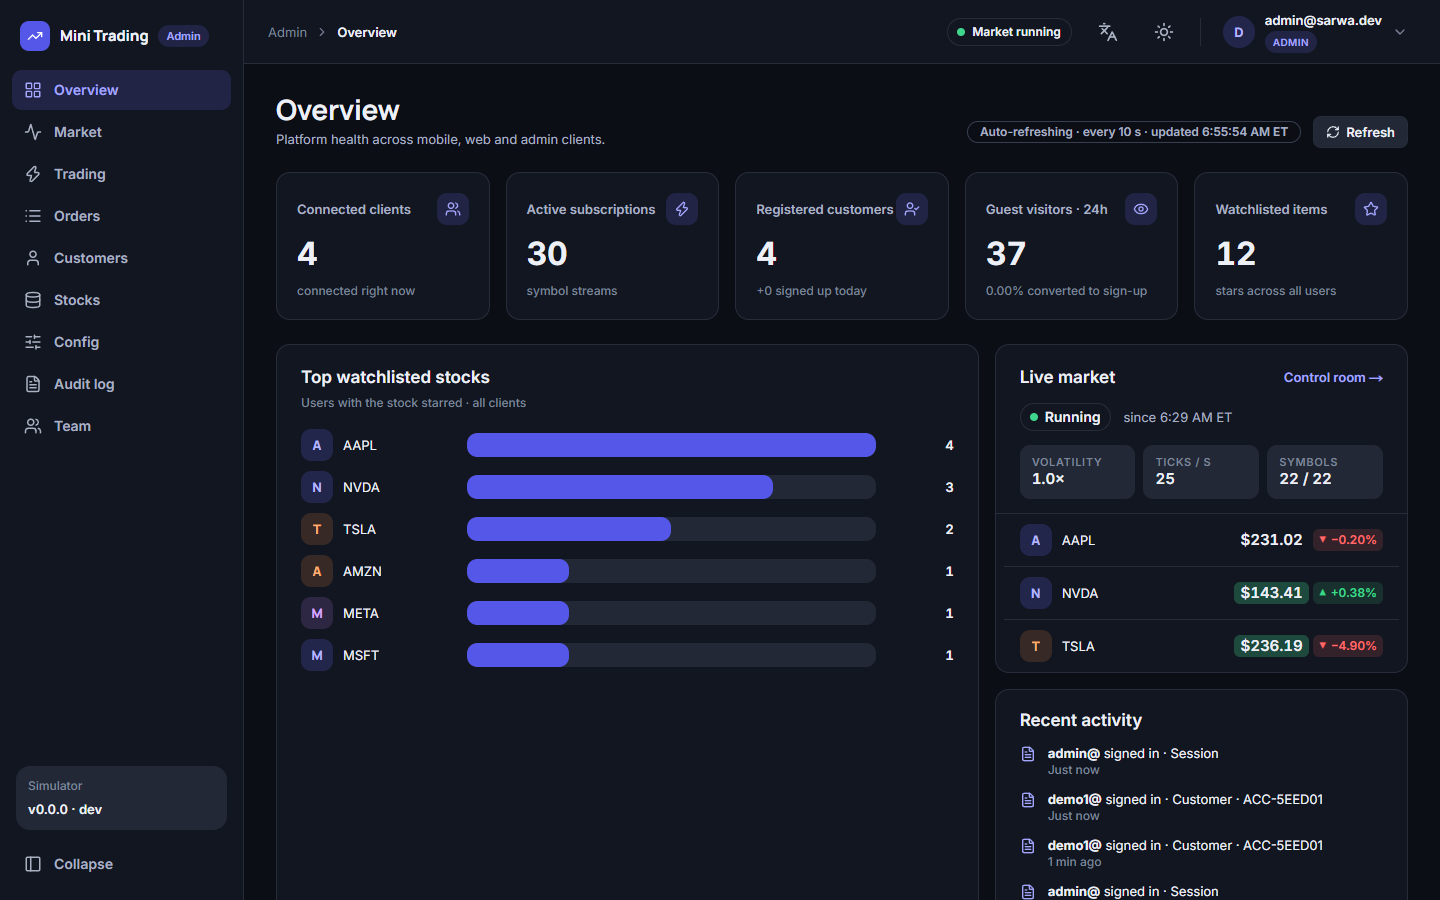
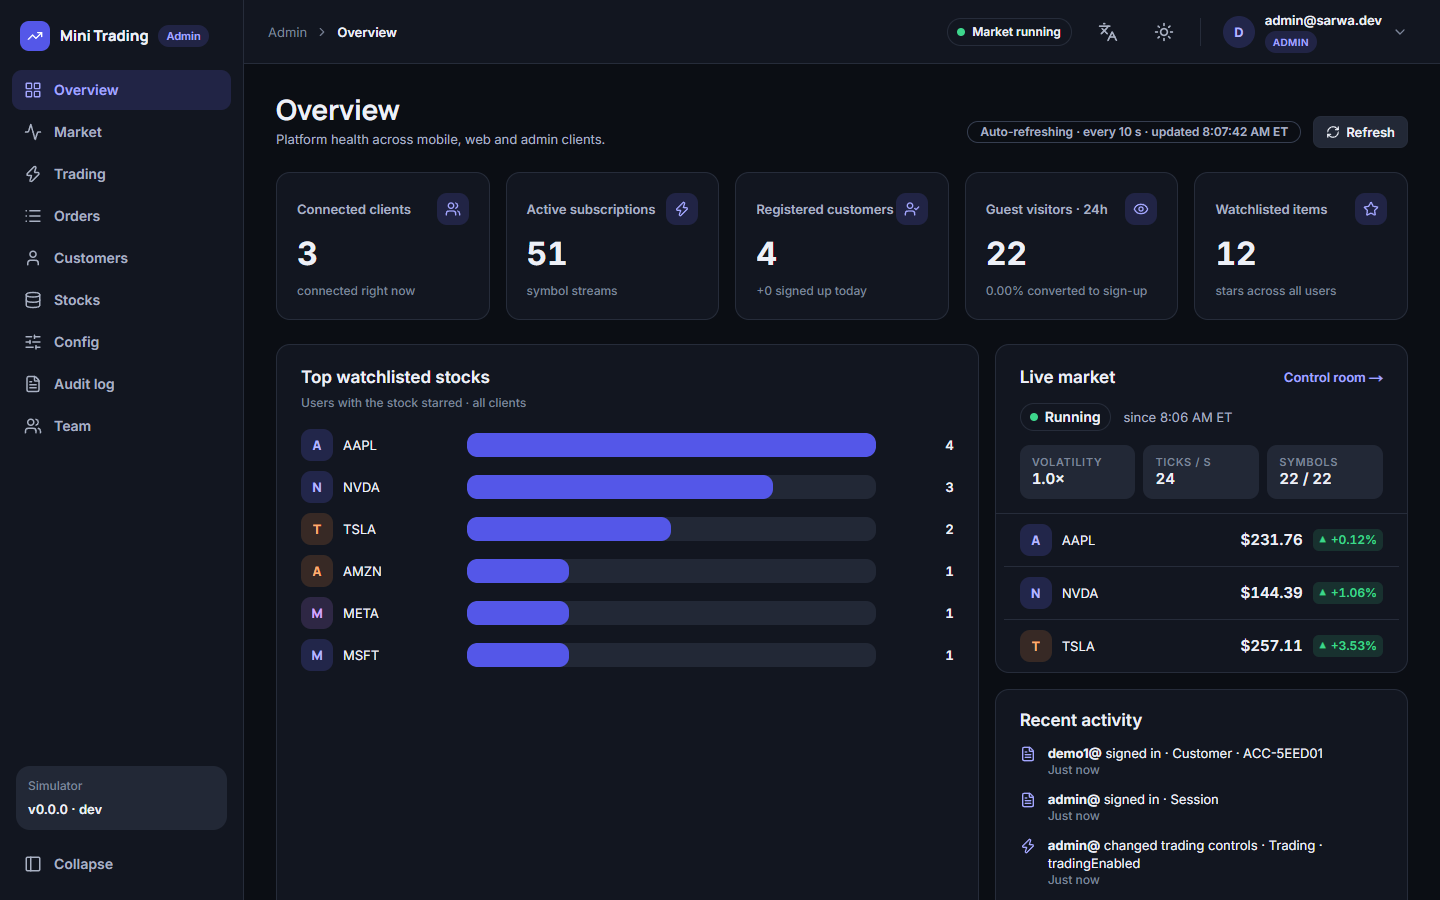
docs: add the admin dashboard section and live screenshots to the readmes

diff --git a/README.md b/README.md
@@ -7,12 +7,21 @@ A paper-trading platform with live prices: a native Expo app, a Next.js website,
 ![TypeScript](https://img.shields.io/badge/TypeScript-strict-3178c6)
 ![Lighthouse (manual, local)](https://img.shields.io/badge/Lighthouse%20%28manual%2C%20local%29-a11y%20100%20%C2%B7%20SEO%20100-success)
 
-<p align="center">
+<table align="center">
+<tr>
+<td align="center" valign="middle">
   <picture>
     <source media="(prefers-color-scheme: dark)" srcset="docs/screenshots/dark/web-markets.png">
-    <img src="docs/screenshots/light/web-markets.png" alt="The markets page on the web app, with live prices" width="900">
+    <img src="docs/screenshots/light/web-markets.png" alt="The markets page on the web app, with live prices" width="660">
   </picture>
-</p>
+  <br><sub><b>Web</b> · Next.js</sub>
+</td>
+<td align="center" valign="middle">
+  <img src="docs/screenshots/mobile-app/watchlist-dark.jpg" alt="The native Expo app on a real phone: watchlist with live prices" width="190">
+  <br><sub><b>Mobile app</b> · Expo, on a real phone</sub>
+</td>
+</tr>
+</table>
 
 ## Contents
 
@@ -22,15 +31,16 @@ A paper-trading platform with live prices: a native Expo app, a Next.js website,
 4. [The brief, and how each requirement is met](#the-brief-and-how-each-requirement-is-met)
 5. [What I added beyond the brief, and why](#what-i-added-beyond-the-brief-and-why)
 6. [Screenshots](#screenshots)
-7. [Architecture](#architecture)
-8. [Tech stack](#tech-stack)
-9. [Performance](#performance)
-10. [Security](#security)
-11. [Quality and testing](#quality-and-testing)
-12. [How I worked with AI](#how-i-worked-with-ai)
-13. [Known limitations](#known-limitations)
-14. [Roadmap](#roadmap)
-15. [Repository map and further reading](#repository-map-and-further-reading)
+7. [Admin dashboard](#admin-dashboard)
+8. [Architecture](#architecture)
+9. [Tech stack](#tech-stack)
+10. [Performance](#performance)
+11. [Security](#security)
+12. [Quality and testing](#quality-and-testing)
+13. [How I worked with AI](#how-i-worked-with-ai)
+14. [Known limitations](#known-limitations)
+15. [Roadmap](#roadmap)
+16. [Repository map and further reading](#repository-map-and-further-reading)
 
 ## TL;DR
 
@@ -261,49 +271,75 @@ Guests browse freely; signing in unlocks trading, alerts and sessions. Shown wit
 
 </details>
 
-<details>
-<summary><b>Admin dashboard</b> (click to expand)</summary>
+## Admin dashboard
+
+A separate Next.js app on http://localhost:3001 with two roles, ADMIN and VIEWER ([ADR 0012](docs/adr/0012-admin-dashboard-separate-app.md)). Every write requires ADMIN and is written to the audit log. Sign in with `admin@sarwa.dev` / `admin12345` (ADMIN) or `viewer@sarwa.dev` / `viewer12345` (VIEWER, read-only).
+
+### Control the market live
+
+Each change reaches every connected web and mobile client at once over Socket.IO (`market:status`, `config:updated`, `trading.status`, `symbol.halted` / `symbol.resumed`), with no refresh.
+
+<p align="center">
+  <picture><source media="(prefers-color-scheme: dark)" srcset="docs/screenshots/dark/admin-market-control.png"><img src="docs/screenshots/light/admin-market-control.png" alt="Market control room: market running, volatility and drop connections" width="820"></picture>
+  <br><sub>Market control room: market status, volatility and drop connections, with a live ticker.</sub>
+</p>
 
 <table>
-<tr><th width="50%">Light</th><th width="50%">Dark</th></tr>
+<tr><th width="20%">Admin action</th><th width="40%">Admin dashboard</th><th width="40%">Customer web app, live</th></tr>
 <tr>
-<td width="50%"><img src="docs/screenshots/light/admin-overview.png" alt="Overview, light theme" width="420"></td>
-<td width="50%"><img src="docs/screenshots/dark/admin-overview.png" alt="Overview, dark theme" width="420"></td>
+<td width="20%"><b>Pause and resume the market</b><br>Prices freeze and every client shows a "Market paused, prices are frozen" notice; trading picks up again the moment an admin resumes.</td>
+<td width="40%"><picture><source media="(prefers-color-scheme: dark)" srcset="docs/screenshots/dark/admin-market-paused.png"><img src="docs/screenshots/light/admin-market-paused.png" alt="Admin market control with the market paused" width="360"></picture></td>
+<td width="40%"><picture><source media="(prefers-color-scheme: dark)" srcset="docs/screenshots/dark/web-live-paused.png"><img src="docs/screenshots/light/web-live-paused.png" alt="Customer web app showing the market paused" width="360"></picture></td>
 </tr>
-<tr><td colspan="2" align="center"><sub>Overview</sub></td></tr>
 <tr>
-<td width="50%"><img src="docs/screenshots/light/admin-market.png" alt="Market control room: status, volatility, drop connections, live ticker, light theme" width="420"></td>
-<td width="50%"><img src="docs/screenshots/dark/admin-market.png" alt="Market control room: status, volatility, drop connections, live ticker, dark theme" width="420"></td>
+<td width="20%"><b>Halt a symbol, or the kill switch</b><br>Shown: a TSLA halt with the reason "Pending news announcement", next to the kill switch, circuit breaker and session mode. The kill switch turns off Buy and Sell for everyone while prices stay live; the customer sees "TSLA halted" with submit disabled.</td>
+<td width="40%"><picture><source media="(prefers-color-scheme: dark)" srcset="docs/screenshots/dark/admin-trading.png"><img src="docs/screenshots/light/admin-trading.png" alt="Admin trading controls with the kill switch and a halted symbol" width="360"></picture></td>
+<td width="40%"><picture><source media="(prefers-color-scheme: dark)" srcset="docs/screenshots/dark/web-live-halt.png"><img src="docs/screenshots/light/web-live-halt.png" alt="Customer web app showing a halted symbol" width="360"></picture></td>
 </tr>
-<tr><td colspan="2" align="center"><sub>Market control room: status, volatility, drop connections, live ticker</sub></td></tr>
 <tr>
-<td width="50%"><img src="docs/screenshots/light/admin-customers.png" alt="Customers, light theme" width="420"></td>
-<td width="50%"><img src="docs/screenshots/dark/admin-customers.png" alt="Customers, dark theme" width="420"></td>
+<td width="20%"><b>Banner message</b><br>"Markets close early today at 1:00 PM ET", with a live web and mobile preview; shown at the top of both apps, empty hides it.</td>
+<td width="40%"><picture><source media="(prefers-color-scheme: dark)" srcset="docs/screenshots/dark/admin-config.png"><img src="docs/screenshots/light/admin-config.png" alt="Admin configuration with the banner message" width="360"></picture></td>
+<td width="40%"><picture><source media="(prefers-color-scheme: dark)" srcset="docs/screenshots/dark/web-live-banner.png"><img src="docs/screenshots/light/web-live-banner.png" alt="Customer web app showing the admin banner" width="360"></picture></td>
 </tr>
-<tr><td colspan="2" align="center"><sub>Customers</sub></td></tr>
 <tr>
-<td width="50%"><img src="docs/screenshots/light/admin-customer-detail.png" alt="Customer detail: portfolio, sessions and audited admin actions, light theme" width="420"></td>
-<td width="50%"><img src="docs/screenshots/dark/admin-customer-detail.png" alt="Customer detail: portfolio, sessions and audited admin actions, dark theme" width="420"></td>
+<td width="20%"><b>Maintenance mode</b><br>Every client screen is replaced with "We'll be right back" and the server blocks writes; admin stays available.</td>
+<td width="40%"><picture><source media="(prefers-color-scheme: dark)" srcset="docs/screenshots/dark/admin-config.png"><img src="docs/screenshots/light/admin-config.png" alt="Admin configuration with the maintenance mode toggle" width="360"></picture></td>
+<td width="40%"><picture><source media="(prefers-color-scheme: dark)" srcset="docs/screenshots/dark/web-live-maintenance.png"><img src="docs/screenshots/light/web-live-maintenance.png" alt="Customer web app in maintenance mode" width="360"></picture></td>
 </tr>
-<tr><td colspan="2" align="center"><sub>Customer detail: portfolio, sessions and audited admin actions</sub></td></tr>
-<tr>
-<td width="50%"><img src="docs/screenshots/light/admin-team.png" alt="Team members and a pending invite, light theme" width="420"></td>
-<td width="50%"><img src="docs/screenshots/dark/admin-team.png" alt="Team members and a pending invite, dark theme" width="420"></td>
-</tr>
-<tr><td colspan="2" align="center"><sub>Team: ADMIN and VIEWER roles, a pending email invite that expires in 48 hours</sub></td></tr>
-<tr>
-<td width="50%"><img src="docs/screenshots/light/admin-audit.png" alt="Audit log, light theme" width="420"></td>
-<td width="50%"><img src="docs/screenshots/dark/admin-audit.png" alt="Audit log, dark theme" width="420"></td>
-</tr>
-<tr><td colspan="2" align="center"><sub>Audit log: every sign-in and admin action, with its payload</sub></td></tr>
-<tr>
-<td width="50%"><img src="docs/screenshots/light/admin-login.png" alt="Admin sign-in, light theme" width="420"></td>
-<td width="50%"><img src="docs/screenshots/dark/admin-login.png" alt="Admin sign-in, dark theme" width="420"></td>
-</tr>
-<tr><td colspan="2" align="center"><sub>Admin sign-in</sub></td></tr>
 </table>
 
-</details>
+### Manage customers, team and audit
+
+<table>
+<tr>
+<td width="50%" align="center"><picture><source media="(prefers-color-scheme: dark)" srcset="docs/screenshots/dark/admin-overview.png"><img src="docs/screenshots/light/admin-overview.png" alt="Admin overview" width="420"></picture><br><sub><b>Overview</b>: connected clients, symbol streams, top watchlisted stocks, the live market and recent sign-ins and admin actions, refreshed every 10 s.</sub></td>
+<td width="50%" align="center"><picture><source media="(prefers-color-scheme: dark)" srcset="docs/screenshots/dark/admin-customers.png"><img src="docs/screenshots/light/admin-customers.png" alt="Customers list" width="420"></picture><br><sub><b>Customers</b>: search and filter; emails and IPs masked on the server.</sub></td>
+</tr>
+<tr>
+<td width="50%" align="center"><picture><source media="(prefers-color-scheme: dark)" srcset="docs/screenshots/dark/admin-customer-actions.png"><img src="docs/screenshots/light/admin-customer-actions.png" alt="Customer detail with an action dialog and a reason field" width="420"></picture><br><sub><b>Customer actions</b>: suspend, reactivate, sign out and reset each need a reason of 10 to 280 characters. Suspension cancels open orders and signs the customer out on every device within seconds; revealing IPs is audited.</sub></td>
+<td width="50%" align="center"><picture><source media="(prefers-color-scheme: dark)" srcset="docs/screenshots/dark/admin-stocks.png"><img src="docs/screenshots/light/admin-stocks.png" alt="Stocks management" width="420"></picture><br><sub><b>Stocks</b>: add, enable and tune the symbols the simulator runs (base price, volatility, sector, exchange).</sub></td>
+</tr>
+<tr>
+<td width="50%" align="center"><picture><source media="(prefers-color-scheme: dark)" srcset="docs/screenshots/dark/admin-team.png"><img src="docs/screenshots/light/admin-team.png" alt="Team members and a pending invite" width="420"></picture><br><sub><b>Team</b>: ADMIN and VIEWER roles; single-use email invites expire in 48 hours.</sub></td>
+<td width="50%" align="center"><picture><source media="(prefers-color-scheme: dark)" srcset="docs/screenshots/dark/admin-audit.png"><img src="docs/screenshots/light/admin-audit.png" alt="Audit log" width="420"></picture><br><sub><b>Audit log</b>: every sign-in and admin action, with its payload.</sub></td>
+</tr>
+</table>
+
+### Read-only VIEWER
+
+A VIEWER sees masked emails and locked controls, and the server answers any write with 403: masking happens on the server, so the browser never receives the data.
+
+<table>
+<tr>
+<td width="50%" align="center"><picture><source media="(prefers-color-scheme: dark)" srcset="docs/screenshots/dark/admin-viewer-customers.png"><img src="docs/screenshots/light/admin-viewer-customers.png" alt="Customers as a VIEWER, with masked emails" width="420"></picture><br><sub>Customers as a VIEWER: emails masked (d•••@sarwa.dev), Export CSV locked</sub></td>
+<td width="50%" align="center"><picture><source media="(prefers-color-scheme: dark)" srcset="docs/screenshots/dark/admin-viewer-readonly.png"><img src="docs/screenshots/light/admin-viewer-readonly.png" alt="Read-only notice and disabled controls for a VIEWER" width="420"></picture><br><sub>Read-only badge; Pause and Drop connections locked</sub></td>
+</tr>
+</table>
+
+<p align="center">
+  <picture><source media="(prefers-color-scheme: dark)" srcset="docs/screenshots/dark/admin-login.png"><img src="docs/screenshots/light/admin-login.png" alt="Admin sign-in" width="360"></picture>
+  <br><sub>Admin sign-in</sub>
+</p>
 
 ## Architecture
 

diff --git a/apps/web/README.md b/apps/web/README.md
@@ -2,6 +2,29 @@
 
 The customer web app, built with the Next.js 16 App Router and Tailwind v4. Guests can browse markets and star stocks. Signed-in customers trade, manage alerts and see their portfolio. Prices stream live over Socket.IO.
 
+## Screenshots
+
+Light or dark follows your GitHub theme.
+
+<table>
+  <tr>
+    <td width="50%"><picture><source media="(prefers-color-scheme: dark)" srcset="../../docs/screenshots/dark/web-home-guest.png"><img src="../../docs/screenshots/light/web-home-guest.png" alt="Guest home page"></picture><br><sub>Guest home: sign-up hero, top movers and the sector heatmap.</sub></td>
+    <td width="50%"><picture><source media="(prefers-color-scheme: dark)" srcset="../../docs/screenshots/dark/web-ticket.png"><img src="../../docs/screenshots/light/web-ticket.png" alt="Stock page with order review"></picture><br><sub>Stock page: live chart and the buy order review with a quote countdown.</sub></td>
+  </tr>
+  <tr>
+    <td width="50%"><picture><source media="(prefers-color-scheme: dark)" srcset="../../docs/screenshots/dark/web-live-paused.png"><img src="../../docs/screenshots/light/web-live-paused.png" alt="Market paused banner"></picture><br><sub>Live admin change: the market is paused, so a banner says prices are frozen.</sub></td>
+    <td width="50%"><picture><source media="(prefers-color-scheme: dark)" srcset="../../docs/screenshots/dark/web-live-halt.png"><img src="../../docs/screenshots/light/web-live-halt.png" alt="Trading halted on a stock"></picture><br><sub>Live admin change: TSLA is halted, so the order ticket blocks new orders.</sub></td>
+  </tr>
+  <tr>
+    <td width="50%"><picture><source media="(prefers-color-scheme: dark)" srcset="../../docs/screenshots/dark/web-portfolio.png"><img src="../../docs/screenshots/light/web-portfolio.png" alt="Portfolio page"></picture><br><sub>Portfolio: total equity, equity chart, cash and allocation, positions.</sub></td>
+    <td width="50%"><img src="../../docs/screenshots/rtl/web-ar.jpg" alt="Home page in Arabic"><br><sub>The home page in Arabic, laid out right to left.</sub></td>
+  </tr>
+  <tr>
+    <td width="50%"><picture><source media="(prefers-color-scheme: dark)" srcset="../../docs/screenshots/dark/web-mobile-stock.png"><img src="../../docs/screenshots/light/web-mobile-stock.png" alt="Stock page at phone width" width="280"></picture><br><sub>Phone width: stock page with sticky Buy and Sell buttons.</sub></td>
+    <td width="50%"><picture><source media="(prefers-color-scheme: dark)" srcset="../../docs/screenshots/dark/web-mobile-watchlist.png"><img src="../../docs/screenshots/light/web-mobile-watchlist.png" alt="Watchlist at phone width" width="280"></picture><br><sub>Phone width: watchlist with live prices and daily change.</sub></td>
+  </tr>
+</table>
+
 ## Run, test, build
 
 | Task               | In this folder                                                | From the root                                       |

diff --git a/apps/admin/README.md b/apps/admin/README.md
@@ -2,6 +2,25 @@
 
 The admin dashboard, a separate Next.js 16 app. Admins use it to watch the market and the platform, manage stocks, trading rules, halts, customers, orders, the team and invites, and to read the audit log. There are two roles: ADMIN (full access) and VIEWER (read-only, with PII masked by the server).
 
+## Screenshots
+
+Light or dark follows your GitHub theme.
+
+<table>
+  <tr>
+    <td width="50%"><picture><source media="(prefers-color-scheme: dark)" srcset="../../docs/screenshots/dark/admin-market-control.png"><img src="../../docs/screenshots/light/admin-market-control.png" alt="Market control room"></picture><br><sub>Market control room: pause the market, set volatility, drop all connections, live ticker.</sub></td>
+    <td width="50%"><picture><source media="(prefers-color-scheme: dark)" srcset="../../docs/screenshots/dark/admin-customers.png"><img src="../../docs/screenshots/light/admin-customers.png" alt="Customers list"></picture><br><sub>Customers: sign-up and activity stats, filters, and the customer table.</sub></td>
+  </tr>
+  <tr>
+    <td width="50%"><picture><source media="(prefers-color-scheme: dark)" srcset="../../docs/screenshots/dark/admin-customer-actions.png"><img src="../../docs/screenshots/light/admin-customer-actions.png" alt="Suspend customer dialog"></picture><br><sub>Customer actions: suspending a customer needs a reason category and a message.</sub></td>
+    <td width="50%"><picture><source media="(prefers-color-scheme: dark)" srcset="../../docs/screenshots/dark/admin-viewer-customers.png"><img src="../../docs/screenshots/light/admin-viewer-customers.png" alt="Customers as a VIEWER"></picture><br><sub>VIEWER role: read-only banner and masked customer emails.</sub></td>
+  </tr>
+  <tr>
+    <td width="50%"><picture><source media="(prefers-color-scheme: dark)" srcset="../../docs/screenshots/dark/admin-team.png"><img src="../../docs/screenshots/light/admin-team.png" alt="Team page"></picture><br><sub>Team: staff roles, disable access, and pending invites.</sub></td>
+    <td width="50%"><picture><source media="(prefers-color-scheme: dark)" srcset="../../docs/screenshots/dark/admin-audit.png"><img src="../../docs/screenshots/light/admin-audit.png" alt="Audit log"></picture><br><sub>Audit log: every admin action with actor, entity and payload.</sub></td>
+  </tr>
+</table>
+
 ## Run, test, build
 
 | Task               | In this folder                                                | From the root                                         |

diff --git a/apps/mobile/README.md b/apps/mobile/README.md
@@ -2,6 +2,18 @@
 
 The customer mobile app, built with Expo SDK 58, Expo Router and NativeWind. It offers the same features as the web app (markets, live prices, watchlist, trading, alerts, portfolio) and uses only libraries that run in Expo Go.
 
+## Screenshots
+
+Taken on a real phone in dark mode.
+
+<table>
+  <tr>
+    <td width="33%"><img src="../../docs/screenshots/mobile-app/portfolio-dark.jpg" alt="Portfolio tab" width="240"><br><sub>Portfolio: equity chart, cash, buying power and P&amp;L.</sub></td>
+    <td width="33%"><img src="../../docs/screenshots/mobile-app/watchlist-dark.jpg" alt="Watchlist tab" width="240"><br><sub>Watchlist: live prices, sparklines, swipe to remove.</sub></td>
+    <td width="33%"><img src="../../docs/screenshots/mobile-app/account-dark.jpg" alt="Account tab" width="240"><br><sub>Account: profile, security, language, appearance and trading settings.</sub></td>
+  </tr>
+</table>
+
 ## Run, test, lint
 
 | Task                    | In this folder                                            | From the root                                          |

diff --git a/apps/server/README.md b/apps/server/README.md
@@ -2,6 +2,10 @@
 
 The NestJS API behind every client. It serves REST under `/api/v1` and Socket.IO on the `/market` (quotes, order and session events) and `/admin` namespaces. It also runs the market simulator and the trading engine. Data lives in SQLite through Prisma.
 
+## Diagrams
+
+The server has no UI of its own. The [architecture doc](../../docs/architecture.md) draws its main flows as Mermaid diagrams: [system context](../../docs/architecture.md#system-context), [the journey of a price](../../docs/architecture.md#the-journey-of-a-price), [sign-in and refresh](../../docs/architecture.md#sign-in-and-refresh), [order execution](../../docs/architecture.md#order-execution) and [the guest watchlist](../../docs/architecture.md#guest-watchlist).
+
 ## Run, test, build
 
 | Task                       | In this folder                  | From the root                                          |
